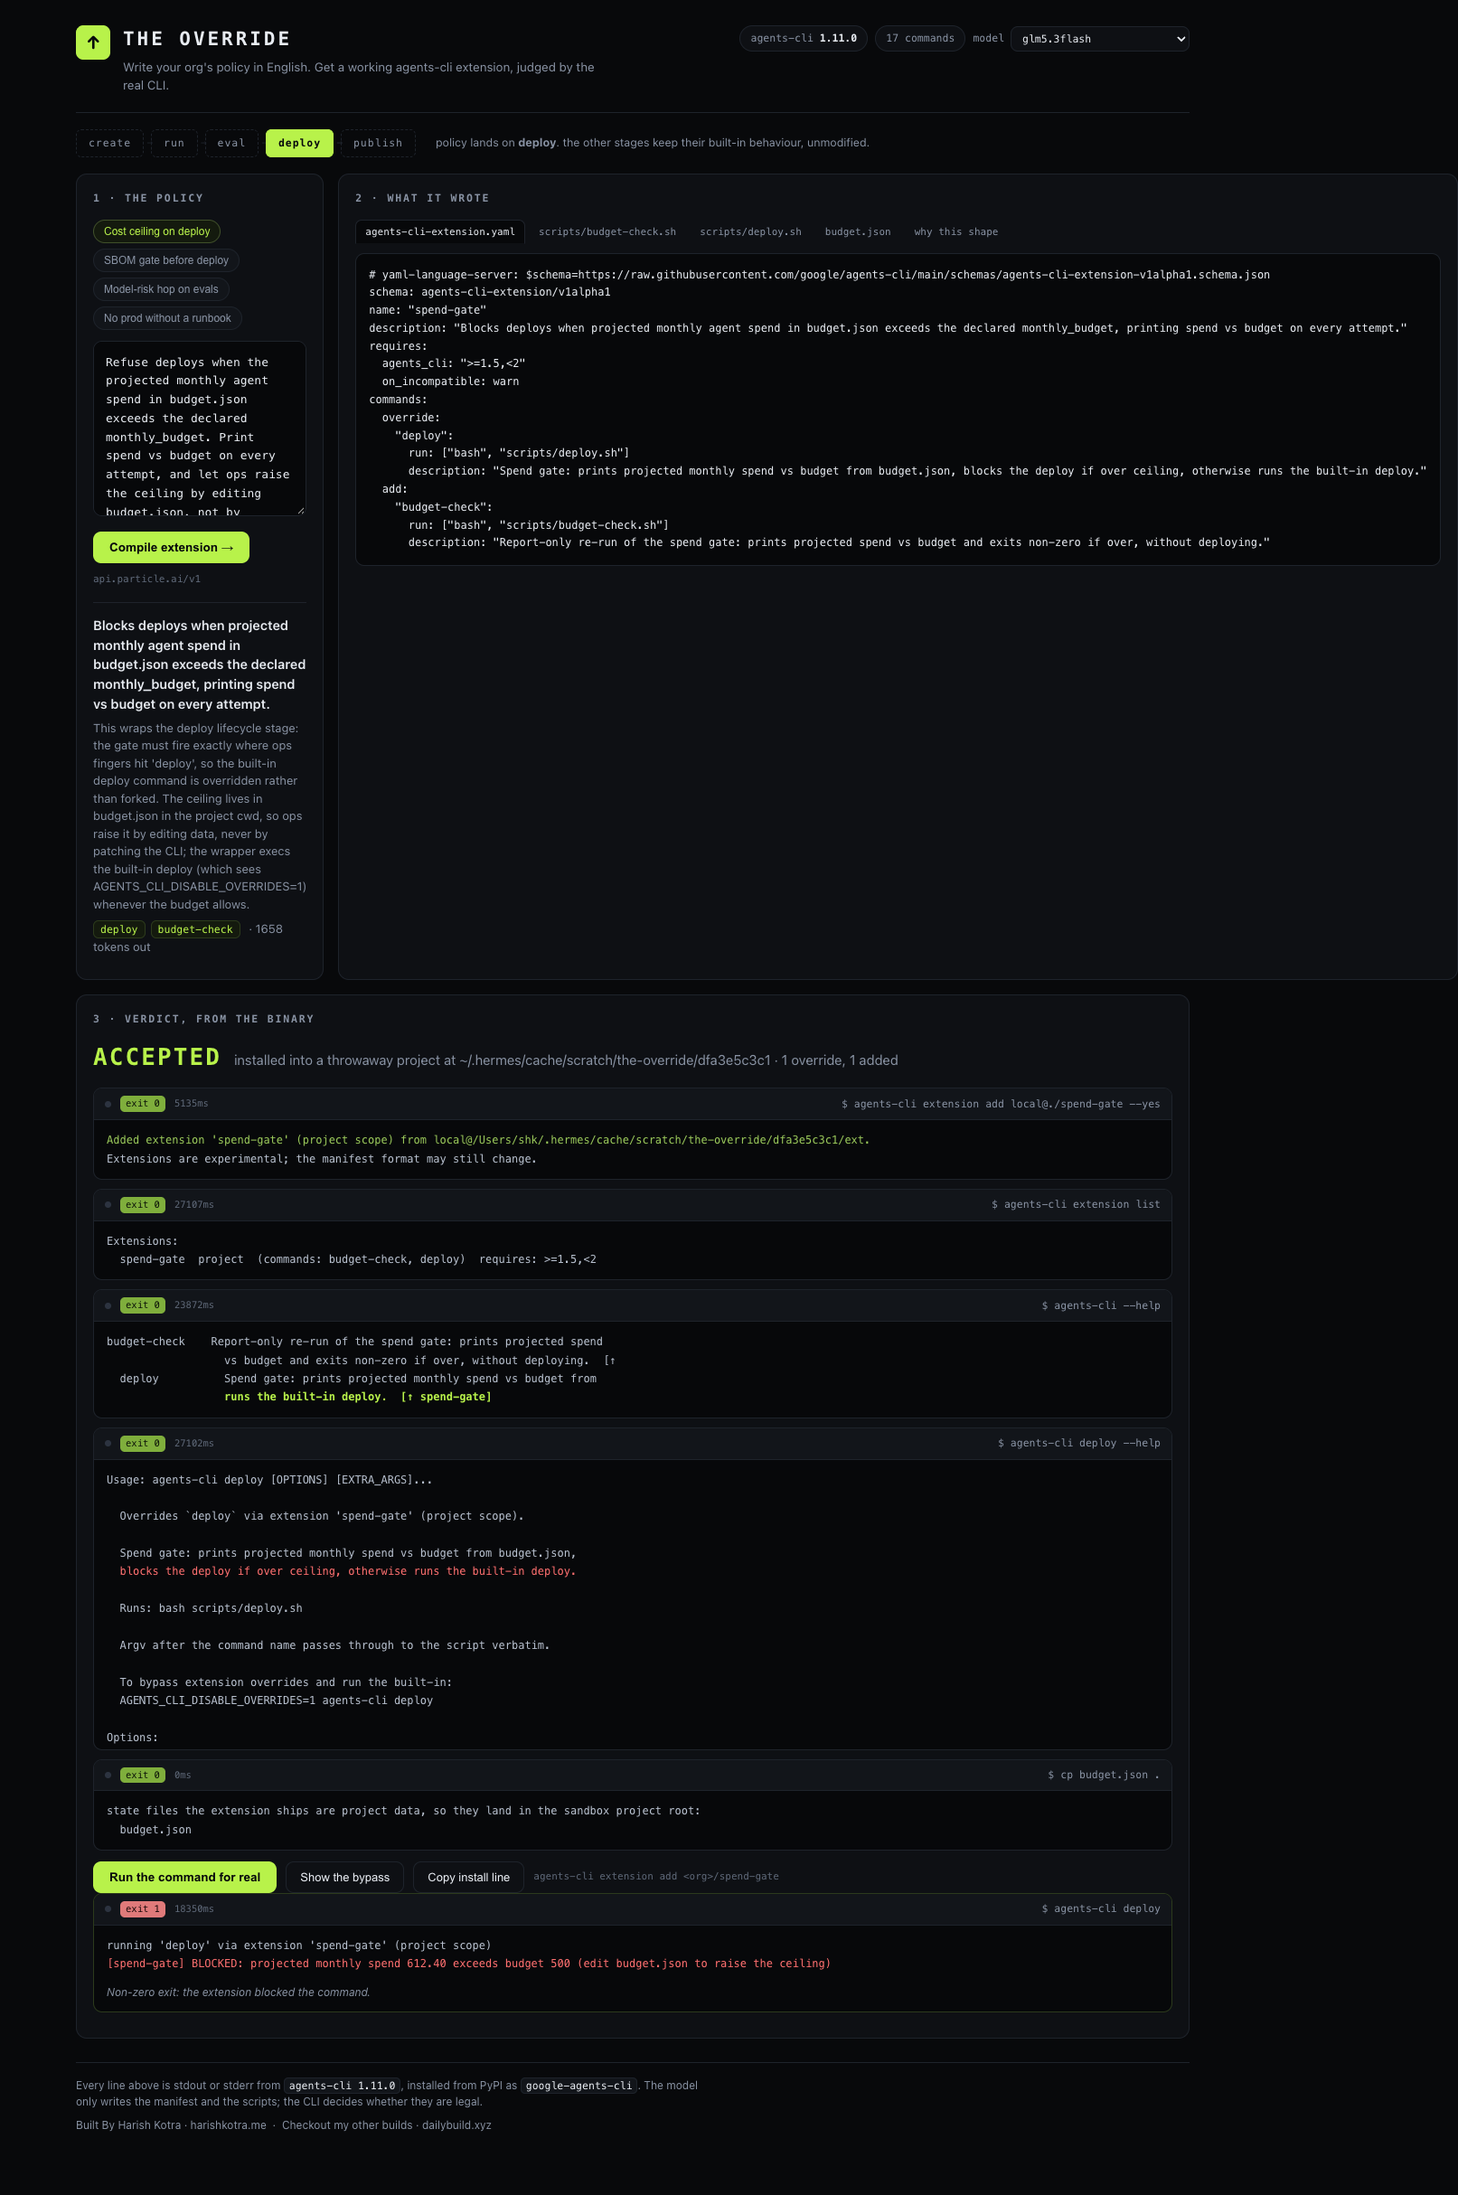
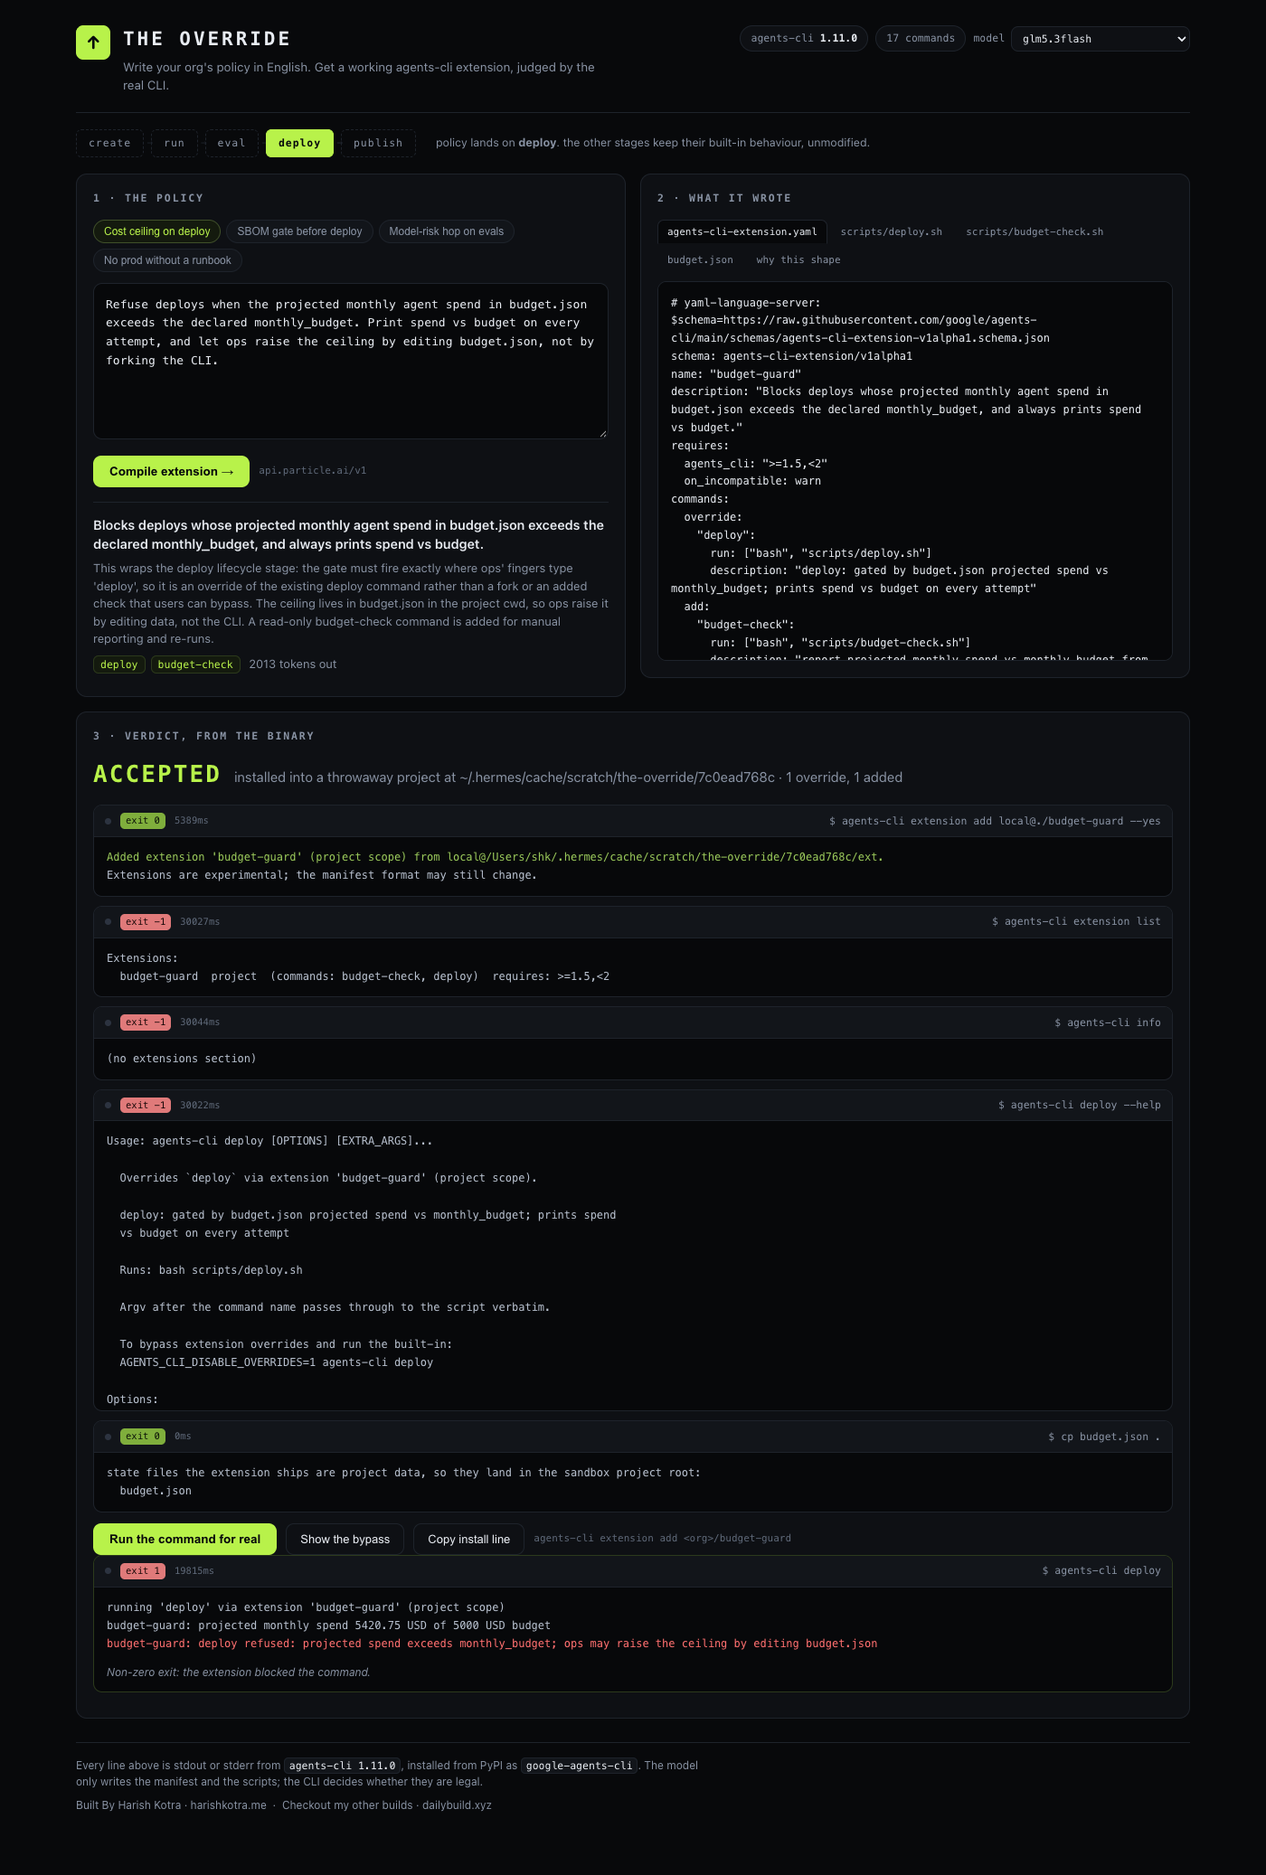
fix ui: equal columns, wrapped code, streaming verdict
- grid columns were collapsing to a sliver because grid children default to
  min-width:auto and the long YAML in the right panel stretched its column;
  minmax(0,1fr) plus min-width:0 on panels fixes it at every breakpoint
- code blocks now wrap instead of hiding text behind an invisible scrollbar
- /api/verify streams NDJSON so the verdict panel fills as each real CLI
  invocation finishes, with a RUNNING banner instead of a blank 40s wait
- step 3 is now `agents-cli info` (the exact command vector per command)
  instead of `--help`, whose [up-arrow name] tag wrapped at 80 cols and
  looked truncated in a wide panel
- scripts/layout-check.mjs asserts the column ratio and zero page overflow
  from 1440 down to 390

diff --git a/src/App.tsx b/src/App.tsx
@@ -11,6 +11,7 @@ type Spec = {
   demo?: { command: string; argv?: string[] }
 }
 type Step = { label: string; cmd: string; code: number; out: string; ms: number; note?: string }
+type Verdict = { id: string; installed: boolean; verdict: string; contributed: { override: string[]; add: string[] }; dir: string }
 type Health = {
   agentsCliVersion: string
   commands: number
@@ -82,7 +83,8 @@ export default function App() {
   const [policy, setPolicy] = useState(EXAMPLES[0].text)
   const [busy, setBusy] = useState<'' | 'compile' | 'verify' | 'run' | 'bypass'>('')
   const [spec, setSpec] = useState<Spec | null>(null)
-  const [verify, setVerify] = useState<{ id: string; installed: boolean; verdict: string; steps: Step[]; contributed: { override: string[]; add: string[] }; dir: string } | null>(null)
+  const [vSteps, setVSteps] = useState<Step[]>([])
+  const [vInfo, setVInfo] = useState<Verdict | null>(null)
   const [extra, setExtra] = useState<Step | null>(null)
   const [tab, setTab] = useState<'manifest' | 'script' | 'why'>('manifest')
   const [fileIdx, setFileIdx] = useState(0)
@@ -97,7 +99,7 @@ export default function App() {
         setHealth(h)
         setModel(h.defaultModel)
       })
-      .catch(() => setErr('api not running — start it with `npm run dev`'))
+      .catch(() => setErr('api not running, start it with `npm run dev`'))
   }, [])
 
   const contributed = useMemo(() => {
@@ -105,10 +107,7 @@ export default function App() {
     return [...Object.keys(spec.commands?.override || {}), ...Object.keys(spec.commands?.add || {})]
   }, [spec])
 
-  const stage = useMemo(() => {
-    const hit = contributed.map(lifecycle).find(Boolean)
-    return hit || null
-  }, [contributed])
+  const stage = useMemo(() => contributed.map(lifecycle).find(Boolean) || null, [contributed])
 
   async function post(url: string, body: object) {
     const r = await fetch(url, { method: 'POST', headers: { 'content-type': 'application/json' }, body: JSON.stringify(body) })
@@ -117,10 +116,44 @@ export default function App() {
     return j
   }
 
+  // /api/verify streams one NDJSON line per finished CLI invocation, so the panel
+  // fills while the real commands run instead of sitting blank for ~40 seconds.
+  async function streamVerify(s: Spec): Promise<Verdict | null> {
+    const r = await fetch('/api/verify', {
+      method: 'POST',
+      headers: { 'content-type': 'application/json' },
+      body: JSON.stringify({ spec: s }),
+    })
+    if (!r.ok || !r.body) {
+      const j = await r.json().catch(() => ({ error: r.statusText }))
+      throw new Error(j.error || 'verify failed')
+    }
+    const reader = r.body.getReader()
+    const dec = new TextDecoder()
+    let buf = ''
+    let done: Verdict | null = null
+    for (;;) {
+      const { value, done: finished } = await reader.read()
+      if (finished) break
+      buf += dec.decode(value, { stream: true })
+      const lines = buf.split('\n')
+      buf = lines.pop() || ''
+      for (const line of lines) {
+        if (!line.trim()) continue
+        const ev = JSON.parse(line)
+        if (ev.type === 'step') setVSteps((prev) => [...prev, ev.step as Step])
+        else if (ev.type === 'done') done = ev as Verdict
+        else if (ev.type === 'error') throw new Error(ev.error)
+      }
+    }
+    return done
+  }
+
   async function onCompile() {
     setBusy('compile')
     setErr('')
-    setVerify(null)
+    setVSteps([])
+    setVInfo(null)
     setExtra(null)
     setSpec(null)
     try {
@@ -130,9 +163,9 @@ export default function App() {
       setTab('manifest')
       setFileIdx(0)
       setBusy('verify')
-      const v = await post('/api/verify', { spec: j.spec })
-      setVerify(v)
-      setTimeout(() => verifyRef.current?.scrollIntoView({ behavior: 'smooth', block: 'start' }), 120)
+      setTimeout(() => verifyRef.current?.scrollIntoView({ behavior: 'smooth', block: 'start' }), 200)
+      const done = await streamVerify(j.spec)
+      setVInfo(done)
     } catch (e: any) {
       setErr(String(e.message || e))
     } finally {
@@ -141,12 +174,11 @@ export default function App() {
   }
 
   async function onExec(kind: 'run' | 'bypass') {
-    if (!verify) return
+    if (!vInfo) return
     setBusy(kind)
     setErr('')
     try {
-      const j = await post('/api/exec', { id: verify.id, kind })
-      setExtra(j)
+      setExtra(await post('/api/exec', { id: vInfo.id, kind }))
     } catch (e: any) {
       setErr(String(e.message || e))
     } finally {
@@ -154,7 +186,10 @@ export default function App() {
     }
   }
 
-  const installCmd = spec ? (verify?.installed ? `agents-cli extension add ${'<org>'}/${spec.name}` : `agents-cli extension add local@./${spec.name}`) : ''
+  const installCmd = spec ? `agents-cli extension add <org>/${spec.name}` : ''
+  const verdictShown = vSteps.length > 0 || !!vInfo
+  const overrideCount = Object.keys(spec?.commands?.override || {}).length
+  const addCount = Object.keys(spec?.commands?.add || {}).length
 
   return (
     <div className="app">
@@ -211,7 +246,7 @@ export default function App() {
               </button>
             ))}
           </div>
-          <textarea value={policy} onChange={(e) => setPolicy(e.target.value)} spellCheck={false} rows={8} />
+          <textarea value={policy} onChange={(e) => setPolicy(e.target.value)} spellCheck={false} rows={7} />
           <div className="row">
             <button className="go" onClick={onCompile} disabled={!!busy || !health?.hasKey}>
               {!health
@@ -219,18 +254,15 @@ export default function App() {
                 : busy === 'compile'
                   ? 'compiling…'
                   : busy === 'verify'
-                    ? 'installing + verifying with the CLI…'
+                    ? 'installing + verifying…'
                     : 'Compile extension →'}
             </button>
             <span className="hint">{health?.baseUrl?.replace('https://', '')}</span>
           </div>
           {busy === 'verify' && (
-            <p className="hint" style={{ marginTop: 10, whiteSpace: 'normal' }}>
-              installing the extension into a throwaway project and reading the CLI's own answer. Each `agents-cli`
-              invocation is a cold Python start, so this takes ~30s. That delay is the price of not faking it.
-            </p>
+            <p className="hint wrap">the real CLI is running, one cold Python start per invocation.</p>
           )}
-          {!health?.hasKey && <p className="warn">No PARTICLE_API_KEY in .env — the model call will fail.</p>}
+          {!health?.hasKey && <p className="warn">No PARTICLE_API_KEY in .env, the model call will fail.</p>}
           {err && <p className="warn">{err}</p>}
           {spec && (
             <div className="rationale">
@@ -242,7 +274,7 @@ export default function App() {
                     {c}
                   </code>
                 ))}
-                {usage?.completion_tokens ? <span className="dim"> · {usage.completion_tokens} tokens out</span> : null}
+                {usage?.completion_tokens ? <span className="dim"> {usage.completion_tokens} tokens out</span> : null}
               </p>
             </div>
           )}
@@ -254,8 +286,8 @@ export default function App() {
             <div className="empty">
               <p>Nothing compiled yet.</p>
               <p className="dim">
-                An extension is one YAML file plus the scripts it runs. `run:` is an argv vector, executed with no shell, so
-                chaining has to live inside a wrapper.
+                An extension is one YAML file plus the scripts it runs. <code>run:</code> is an argv vector, executed with no
+                shell, so chaining has to live inside a wrapper.
               </p>
             </div>
           ) : (
@@ -265,7 +297,14 @@ export default function App() {
                   agents-cli-extension.yaml
                 </button>
                 {spec.files.map((f, i) => (
-                  <button key={f.path} className={tab === 'script' && fileIdx === i ? 'on' : ''} onClick={() => { setTab('script'); setFileIdx(i) }}>
+                  <button
+                    key={f.path}
+                    className={tab === 'script' && fileIdx === i ? 'on' : ''}
+                    onClick={() => {
+                      setTab('script')
+                      setFileIdx(i)
+                    }}
+                  >
                     {f.path}
                   </button>
                 ))}
@@ -278,8 +317,8 @@ export default function App() {
               {tab === 'why' && (
                 <div className="why">
                   <p>
-                    <b>{contributed.length}</b> command{contributed.length === 1 ? '' : 's'} contributed.{' '}
-                    {Object.keys(spec.commands?.override || {}).length} override, {Object.keys(spec.commands?.add || {}).length} added.
+                    <b>{contributed.length}</b> command{contributed.length === 1 ? '' : 's'} contributed. {overrideCount}{' '}
+                    override, {addCount} added.
                   </p>
                   <ul>
                     <li>
@@ -291,11 +330,15 @@ export default function App() {
                       did-you-mean instead of silently doing nothing.
                     </li>
                     <li>
-                      Reserved commands cannot be claimed: {['install', 'extension', 'info', 'login', 'setup', 'update'].map((c) => <code key={c}>{c}</code>)}.
+                      Reserved commands cannot be claimed:{' '}
+                      {['install', 'extension', 'info', 'login', 'setup', 'update'].map((c) => (
+                        <code key={c}>{c}</code>
+                      ))}
+                      .
                     </li>
                     <li>
-                      Installed extensions pin to a commit SHA in <code>agents-cli-extensions.yaml</code>, so CI runs the reviewed
-                      code, not whatever <code>main</code> is today.
+                      Installed extensions pin to a commit SHA in <code>agents-cli-extensions.yaml</code>, so CI runs the
+                      reviewed code, not whatever <code>main</code> is today.
                     </li>
                   </ul>
                 </div>
@@ -307,22 +350,27 @@ export default function App() {
 
       <section className="panel wide" ref={verifyRef}>
         <h2>3 · verdict, from the binary</h2>
-        {!verify ? (
-          <p className="dim">Compile a policy and this fills with real stdout from `agents-cli` on this machine.</p>
-        ) : (
+        {!verdictShown && busy !== 'verify' && (
+          <p className="dim">Compile a policy and this fills with real stdout from agents-cli on this machine.</p>
+        )}
+        {busy === 'verify' && !vSteps.length && <p className="dim pulse">starting agents-cli…</p>}
+        {verdictShown && (
           <>
-            <div className={`verdict ${verify.installed ? 'pass' : 'fail'}`}>
-              <span className="big">{verify.verdict}</span>
+            <div className={`verdict ${vInfo ? (vInfo.installed ? 'pass' : 'fail') : 'pending'}`}>
+              <span className="big">{vInfo ? vInfo.verdict : 'RUNNING'}</span>
               <span className="dim">
-                {verify.installed
-                  ? `installed into a throwaway project at ${verify.dir} · ${verify.contributed.override.length} override, ${verify.contributed.add.length} added`
-                  : 'the CLI refused this manifest — the exact reason is below'}
+                {vInfo
+                  ? vInfo.installed
+                    ? `installed into a throwaway project at ${vInfo.dir} · ${vInfo.contributed.override.length} override, ${vInfo.contributed.add.length} added`
+                    : 'the CLI refused this manifest, the exact reason is below'
+                  : `${vSteps.length} real invocation${vSteps.length === 1 ? '' : 's'} done so far`}
               </span>
             </div>
-            {verify.steps.map((s, i) => (
+            {vSteps.map((s, i) => (
               <Terminal key={i} step={s} />
             ))}
-            {verify.installed && (
+            {busy === 'verify' && <p className="dim pulse">reading the CLI…</p>}
+            {vInfo?.installed && (
               <div className="row">
                 <button className="go" onClick={() => onExec('run')} disabled={!!busy}>
                   {busy === 'run' ? 'running…' : 'Run the command for real'}
@@ -344,11 +392,10 @@ export default function App() {
       <footer>
         <p>
           Every line above is stdout or stderr from <code>agents-cli {health?.agentsCliVersion}</code>, installed from PyPI as{' '}
-          <code>google-agents-cli</code>. The model only writes the manifest and the scripts; the CLI decides whether they are legal.
+          <code>google-agents-cli</code>. The model only writes the manifest and the scripts; the CLI decides whether they are
+          legal.
         </p>
-        <p className="dim">
-          Built By Harish Kotra · harishkotra.me &nbsp;·&nbsp; Checkout my other builds · dailybuild.xyz
-        </p>
+        <p className="dim">Built By Harish Kotra · harishkotra.me &nbsp;·&nbsp; Checkout my other builds · dailybuild.xyz</p>
       </footer>
     </div>
   )

diff --git a/src/styles.css b/src/styles.css
@@ -45,10 +45,15 @@ h1 { font-family: var(--mono); font-size: 21px; letter-spacing: 0.14em; margin: 
 .rail-note { font-size: 12.5px; color: var(--dim); margin: 0 0 0 14px; }
 
 /* ---------------- layout ---------------- */
-.grid { display: grid; grid-template-columns: 1fr 1fr; gap: 16px; }
-@media (max-width: 920px) { .grid { grid-template-columns: 1fr; } }
+.grid { display: grid; grid-template-columns: minmax(0, 1fr) minmax(0, 1fr); gap: 16px; align-items: start; }
+@media (max-width: 920px) { .grid { grid-template-columns: minmax(0, 1fr); } }
 
-.panel { background: var(--panel); border: 1px solid var(--line); border-radius: 12px; padding: 18px; }
+/* Grid children default to min-width:auto, so a long unbroken line inside a <pre>
+   stretches its column and squeezes the other one. Every panel must be allowed to
+   shrink, and every scroll container must actually scroll instead of growing. */
+.grid > .panel { min-width: 0; }
+
+.panel { background: var(--panel); border: 1px solid var(--line); border-radius: 12px; padding: 18px; min-width: 0; }
 .wide { margin-top: 16px; }
 .panel h2 { font-family: var(--mono); font-size: 11.5px; letter-spacing: 0.16em; text-transform: uppercase; color: var(--dim); margin: 0 0 14px; font-weight: 600; }
 
@@ -77,9 +82,9 @@ textarea:focus { outline: none; border-color: #3a4553; }
 
 /* ---------------- code ---------------- */
 .tabs { display: flex; gap: 4px; flex-wrap: wrap; margin-bottom: 10px; }
-.tabs button { font-family: var(--mono); font-size: 11px; background: transparent; color: var(--dim); border: 1px solid transparent; border-radius: 7px 7px 0 0; padding: 6px 10px; cursor: pointer; }
+.tabs button { font-family: var(--mono); font-size: 11px; background: transparent; color: var(--dim); border: 1px solid transparent; border-radius: 7px 7px 0 0; padding: 6px 10px; cursor: pointer; max-width: 100%; overflow: hidden; text-overflow: ellipsis; white-space: nowrap; }
 .tabs button.on { color: var(--ink); border-color: var(--line); border-bottom-color: var(--panel); background: #07080a; }
-.code { font-family: var(--mono); font-size: 12px; line-height: 1.65; background: #07080a; border: 1px solid var(--line); border-radius: 10px; padding: 14px; overflow: auto; max-height: 420px; margin: 0; white-space: pre; }
+.code { font-family: var(--mono); font-size: 12px; line-height: 1.65; background: #07080a; border: 1px solid var(--line); border-radius: 10px; padding: 14px; overflow-y: auto; overflow-x: hidden; max-height: 420px; max-width: 100%; margin: 0; white-space: pre-wrap; overflow-wrap: anywhere; word-break: break-word; tab-size: 2; }
 .empty p { font-size: 13px; color: var(--dim); margin: 0 0 8px; }
 .why { font-size: 13px; color: var(--dim); }
 .why ul { padding-left: 18px; margin: 10px 0 0; }
@@ -91,6 +96,14 @@ textarea:focus { outline: none; border-color: #3a4553; }
 .verdict .big { font-family: var(--mono); font-size: 26px; font-weight: 800; letter-spacing: 0.08em; }
 .verdict.pass .big { color: var(--lime); }
 .verdict.fail .big { color: var(--red); }
+.verdict.pending .big { color: var(--amber); }
+
+.pulse { animation: pulse 1.4s ease-in-out infinite; }
+@keyframes pulse {
+  0%, 100% { opacity: 0.45; }
+  50% { opacity: 1; }
+}
+.hint.wrap { white-space: normal; overflow: visible; display: block; margin-top: 10px; }
 
 .term { background: #07080a; border: 1px solid var(--line); border-radius: 10px; margin-bottom: 10px; overflow: hidden; }
 .term-big { border-color: #2c3a1c; }
